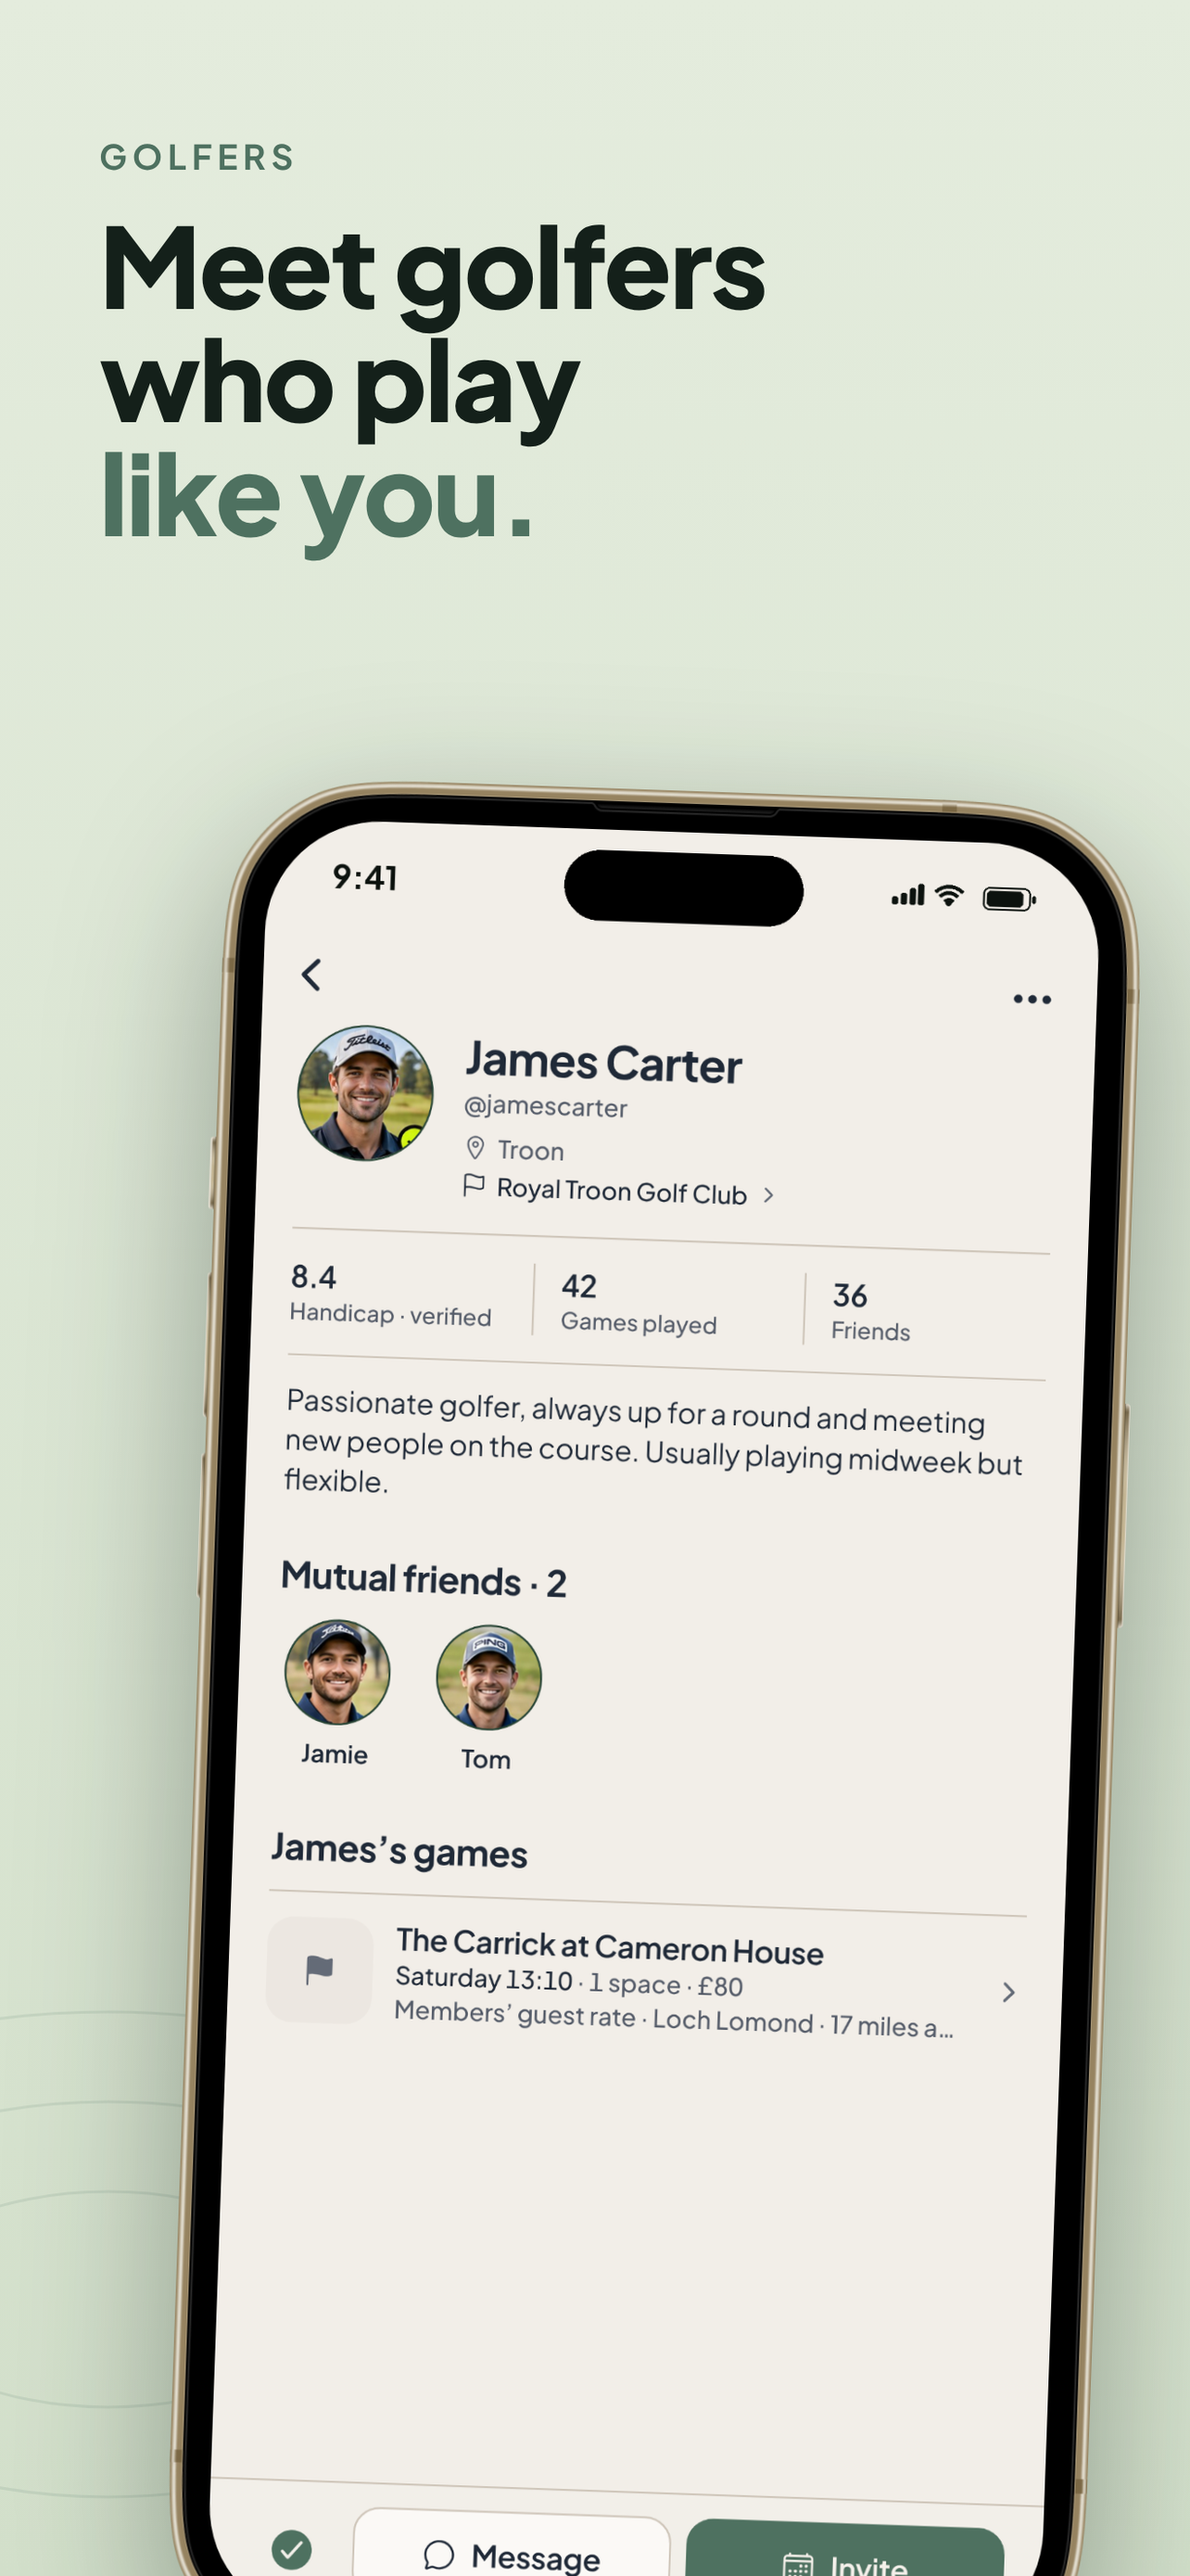
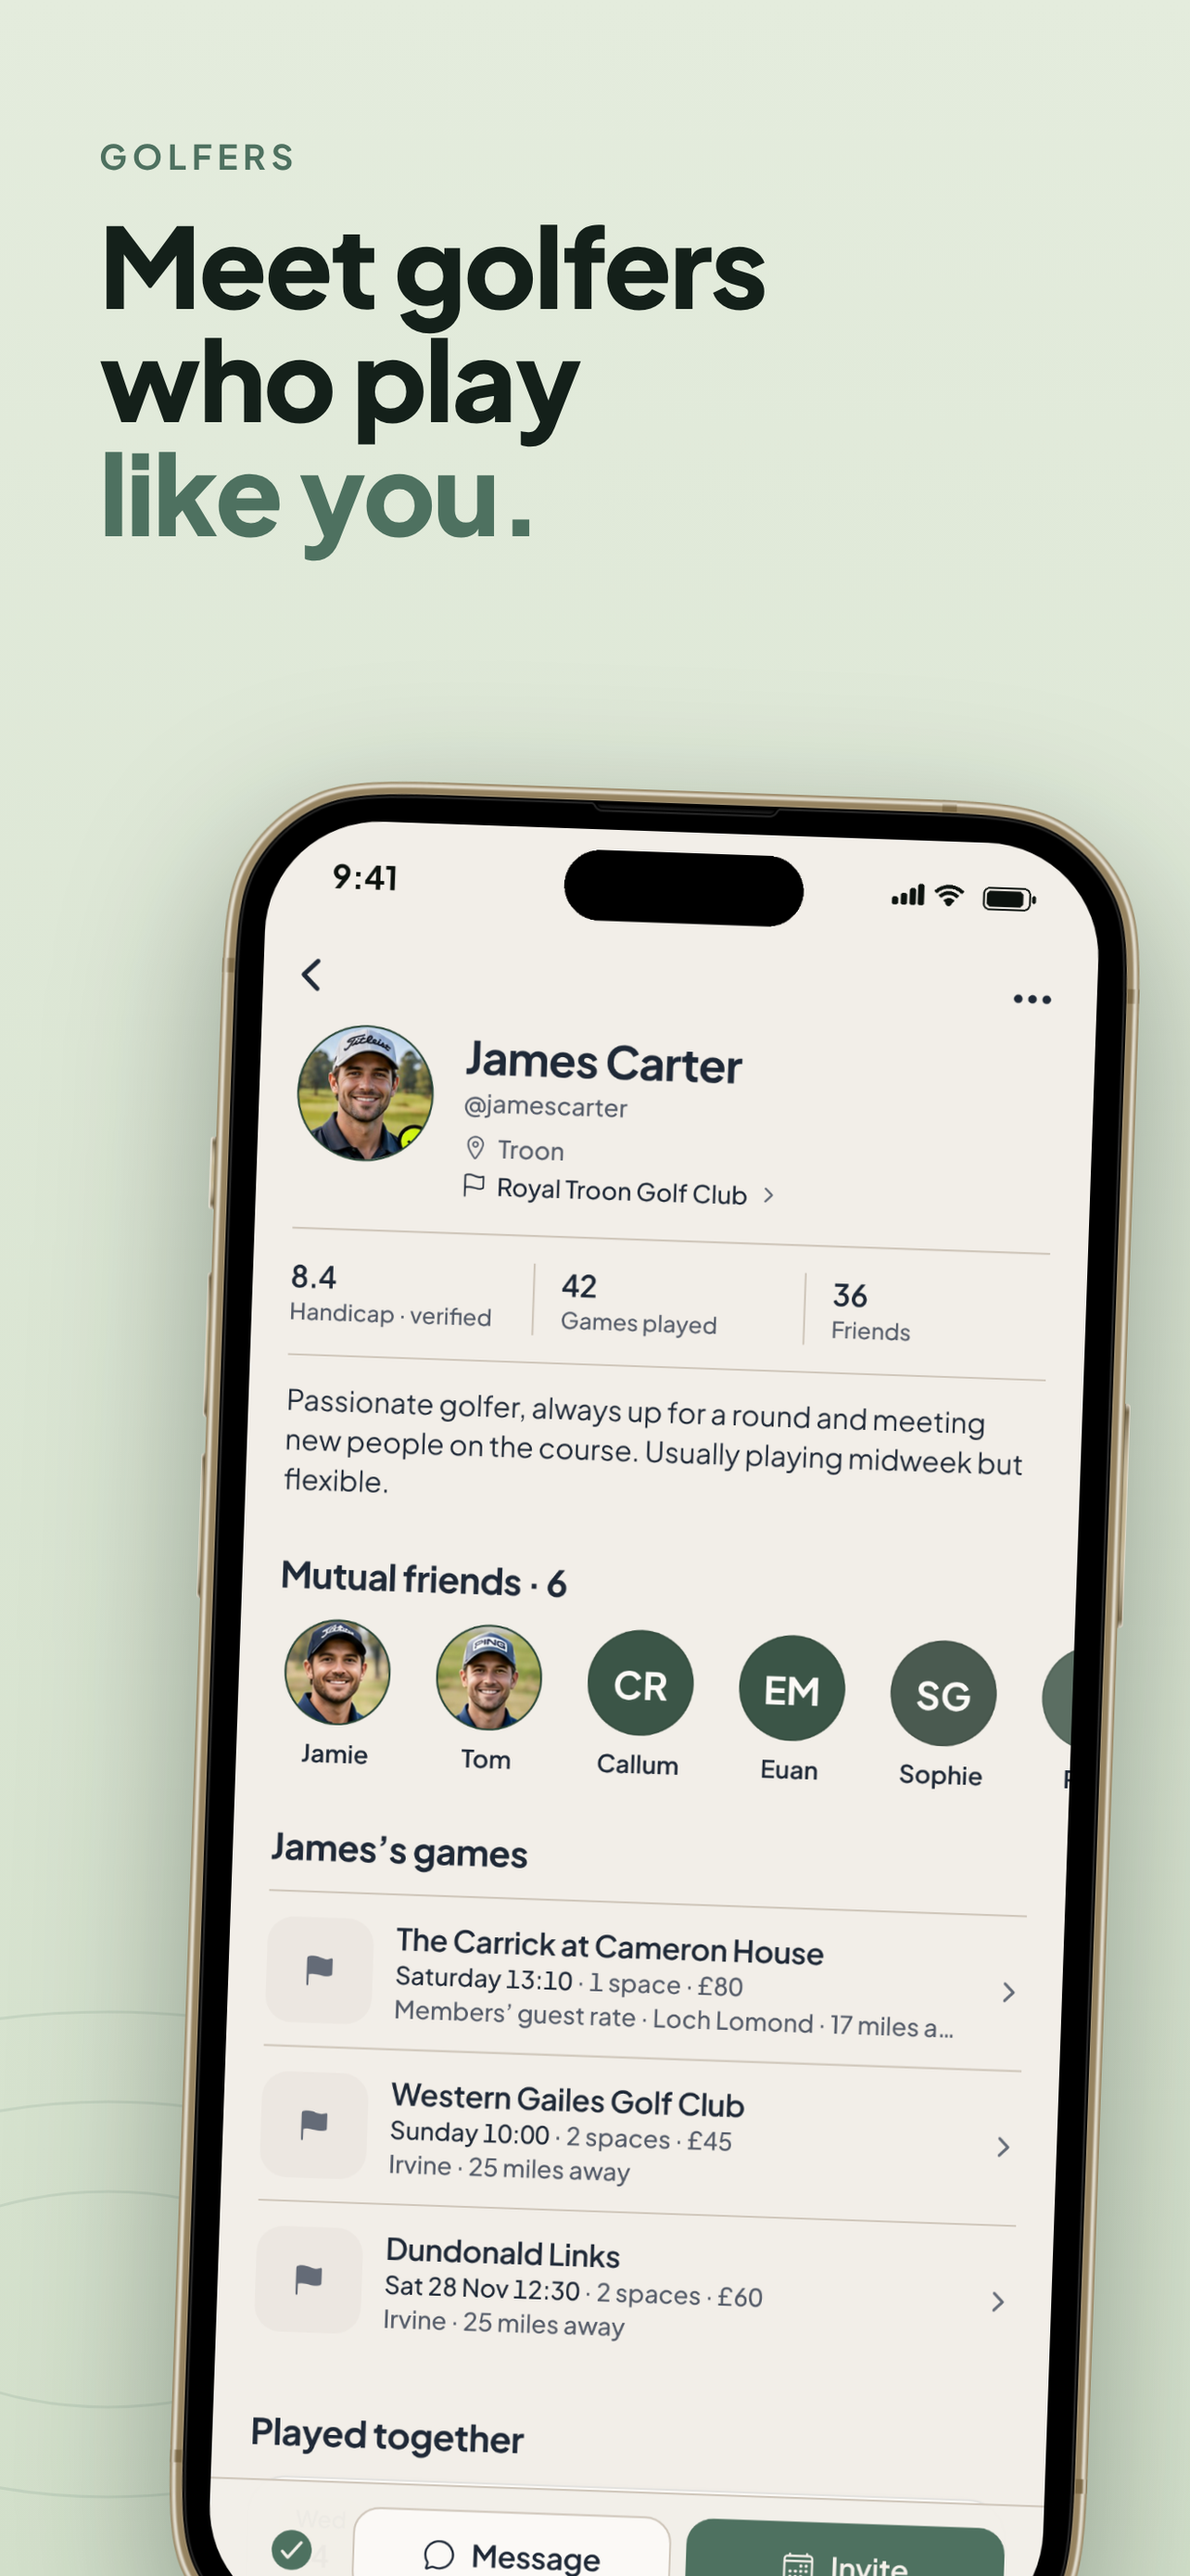
App Store screenshots: painted map on the game, fuller season calendar and profile
Claude-Session: https://claude.ai/code/session_01HoGwsdM8BTbhwhuJxu7WFY

diff --git a/app-store/mock_map.py b/app-store/mock_map.py
@@ -1,0 +1,83 @@
+"""Paints a street map into the small map on a game page capture, for the App Store screenshots.
+
+The screenshot browser can't load real map tiles, so the game page's map comes out as a plain grid.
+This draws a believable one (roads, a river, parkland and the course itself) into the same box and
+puts the club's label back on top. Usage: python3 mock_map.py <capture> <out> <font dir> <label>
+Box and label positions are for a 440 x 902 point capture at 3x.
+"""
+import math, random, sys
+from PIL import Image, ImageDraw, ImageFilter, ImageFont
+
+src, out, fonts, label = sys.argv[1:5]
+im = Image.open(src).convert('RGB')
+L, T, R, B = 63, 2076, 1257, 2475  # inside the map card, down to the top of the footer
+w, h = R - L, B - T
+S = 2  # draw at double size, then shrink, for smooth edges
+m = Image.new('RGB', (w * S, h * S), (238, 239, 233))
+d = ImageDraw.Draw(m)
+rnd = random.Random(7)
+
+def P(x, y):
+    return (x * S, y * S)
+
+# blocks of houses, in a loose grid that the roads cut through
+for gx in range(-20, w, 74):
+    for gy in range(-20, h, 62):
+        if rnd.random() < 0.8:
+            bw, bh = rnd.randint(40, 60), rnd.randint(30, 46)
+            d.rounded_rectangle([*P(gx + 8, gy + 8), *P(gx + 8 + bw, gy + 8 + bh)], radius=6 * S, fill=(228, 228, 220))
+
+# parkland to the north east, and the golf course in the middle
+d.ellipse([*P(w - 300, -120), *P(w + 80, 150)], fill=(214, 229, 204))
+course = [(330, 40), (520, 10), (760, 60), (880, 170), (840, 330), (640, 420), (420, 400), (280, 300), (260, 150)]
+d.polygon([P(x, y) for x, y in course], fill=(207, 226, 196))
+# fairways and greens on the course
+for (x1, y1, x2, y2) in [(360, 120, 600, 170), (520, 220, 800, 270), (380, 300, 640, 345)]:
+    d.rounded_rectangle([*P(x1, y1), *P(x2, y2)], radius=25 * S, fill=(190, 216, 176))
+for (x, y) in [(612, 145), (812, 245), (650, 322)]:
+    d.ellipse([*P(x - 16, y - 16), *P(x + 16, y + 16)], fill=(176, 208, 160))
+for (x, y) in [(590, 182), (790, 280), (395, 290)]:
+    d.ellipse([*P(x - 12, y - 7), *P(x + 12, y + 7)], fill=(236, 226, 196))
+
+# a river across the bottom left
+river = [(-30, 300 + 40 * math.sin(i / 3)) for i in range(0)]
+pts = [(-40 + i * 40, 330 + 60 * math.sin(i / 4.0) - i * 4) for i in range(36)]
+d.line([P(x, y) for x, y in pts], fill=(196, 219, 232), width=34 * S, joint='curve')
+
+def road(points, width, edge=(214, 214, 206)):
+    d.line([P(x, y) for x, y in points], fill=edge, width=(width + 4) * S, joint='curve')
+    d.line([P(x, y) for x, y in points], fill=(255, 255, 255), width=width * S, joint='curve')
+
+# minor streets, then the main roads over them
+for y in (70, 190, 360):
+    road([(-20, y), (w + 20, y + 30)], 7)
+for x in (130, 980, 1120):
+    road([(x, -20), (x + 40, h + 20)], 7)
+road([(-20, 20), (300, 30), (520, 0)], 9)
+road([(-20, 250), (200, 230), (260, 160), (330, 120)], 9)
+road([(w + 20, 120), (950, 160), (880, 330), (900, h + 20)], 9)
+main = [(-20, 160 - 0.0), (240, 210), (520, 470)]
+road([(-20, 120), (250, 450 - 0), (300, h + 20)], 16, (236, 214, 170))
+road([(700, -20), (900, 120), (1000, 260), (w + 20, 330)], 16, (236, 214, 170))
+
+m = m.resize((w, h), Image.LANCZOS)
+# keep the card's rounded top corners and border
+mask = Image.new('L', (w, h), 0)
+ImageDraw.Draw(mask).rounded_rectangle([0, 0, w, h + 60], radius=45, fill=255)
+im.paste(m, (L, T), mask)
+
+# the club's label, as the app draws it: light sage pill, forest text, soft shadow
+font = ImageFont.truetype(f'{fonts}/700Bold/PlusJakartaSans_700Bold.ttf', 45)
+tw = ImageDraw.Draw(im).textlength(label, font=font)
+cx, cy = 660, 2249
+pw, ph = tw + 72, 92
+box = [cx - pw / 2, cy - ph / 2, cx + pw / 2, cy + ph / 2]
+shadow = Image.new('RGBA', im.size, (0, 0, 0, 0))
+ImageDraw.Draw(shadow).rounded_rectangle([box[0], box[1] + 10, box[2], box[3] + 10], radius=ph / 2, fill=(15, 26, 20, 60))
+shadow = shadow.filter(ImageFilter.GaussianBlur(14))
+im = Image.alpha_composite(im.convert('RGBA'), shadow).convert('RGB')
+dd = ImageDraw.Draw(im)
+dd.rounded_rectangle(box, radius=ph / 2, fill=(173, 200, 162))
+dd.text((cx, cy), label, font=font, fill=(15, 26, 20), anchor='mm')
+im.save(out)
+print('saved', out)

diff --git a/app-store/listing.md b/app-store/listing.md
@@ -114,7 +114,9 @@ Six iPhone screenshots in `export/6.9in/` (1320 x 2868, the size Apple requires)
 5. Sort the rest in chat. (Game chat)
 6. Meet golfers who play like you. (A golfer's profile)
 
-They use the demo golfers, not real people. To change them: edit `slides.html`, then run
+They use the demo golfers, not real people. Screens 4 and 6 were captured with extra demo games and friends, so the calendar and James's
+profile are fuller. The map on screen 2 is painted in by `mock_map.py`, as real map tiles can't load
+in the screenshot browser. To change them: edit `slides.html`, then run
 `node export.js`. New phone screens come from `compose_screens.py`.
 
 The app is iPhone only (no iPad version), so no iPad screenshots are needed.
